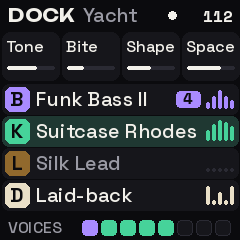
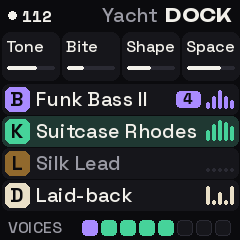
HOME header: tempo at the left, "Yacht DOCK" at the right

Changed region(s): [[0.35, 0.0292, 0.9625, 0.1167], [0.0292, 0.0292, 0.3208, 0.1167]]

diff --git a/firmware/src/ui_dock.c b/firmware/src/ui_dock.c
@@ -68,10 +68,15 @@ static void dk_head(void)
     dk.head = sig;
     ui.head_sig = 0;                                    /* (Melodee's header draws itself whole when it comes back) */
     cv_begin(240, H_HEAD, T_BG);
-    x = cv_text_on(8, ty_y(H_HEAD / 2, TY_WM), TY_WM, "DOCK", T_TEXT, T_BG);
-    cv_free_text(x + 8, ty_y(H_HEAD / 2, TY_TX), TY_TX, DOCK_LINEUPS[dock_lineup].name, T_MID, T_BG, 80);
-    cv_disc(172, H_HEAD / 2, 8, T_TEXT, !ext);
-    cv_text_on(232 - text_w(TY_MB, b), ty_y(H_HEAD / 2, TY_MB), TY_MB, b, T_TEXT, T_BG);
+    cv_disc(12, H_HEAD / 2, 8, T_TEXT, !ext);           /* the clock and the tempo at the left */
+    cv_text_on(22, ty_y(H_HEAD / 2, TY_MB), TY_MB, b, T_TEXT, T_BG);
+    x = 232 - text_w(TY_WM, "DOCK");                    /* the Line-up's name and DOCK at the right: "Yacht DOCK" */
+    cv_text_on(x, ty_y(H_HEAD / 2, TY_WM), TY_WM, "DOCK", T_TEXT, T_BG);
+    {
+        const char *nm = DOCK_LINEUPS[dock_lineup].name;
+        int32_t w = text_w(TY_TX, nm) < 96 ? text_w(TY_TX, nm) : 96;
+        cv_free_text(x - 8 - w, ty_y(H_HEAD / 2, TY_TX), TY_TX, nm, T_MID, T_BG, 96);
+    }
     cv_blit(0, Y_HEAD);
 }
 

diff --git a/tools/dock_refs.py b/tools/dock_refs.py
@@ -94,10 +94,10 @@ def header(s, title, right, right_c=TEXT):
 
 def home():
     s = Screen("home")
-    w = s.text((8, 22), "DOCK", WORD, TEXT)
-    s.text((8 + w + 8, 22), "Yacht", TX, MID, w=80)
-    s.d.ellipse((168, 11, 176, 19), fill=TEXT)          # clock: external (filled), internal (ring)
-    s.text((232, 22), "112", MONOB, TEXT, anchor="rs")
+    s.d.ellipse((8, 11, 16, 19), fill=TEXT)             # clock: external (filled), internal (ring); tempo at the left
+    s.text((22, 22), "112", MONOB, TEXT)
+    w = s.text((232, 22), "DOCK", WORD, TEXT, anchor="rs")   # the Line-up and DOCK at the right: "Yacht DOCK"
+    s.text((232 - w - 8, 22), "Yacht", TX, MID, w=96, anchor="rs")
     # the four knobs, always the same four
     for k, (lab, v) in enumerate([("Tone", .62), ("Bite", .35), ("Shape", .48), ("Space", .70)]):
         x = 2 + 60 * k

diff --git a/docs/design/DOCK_STYLE.md b/docs/design/DOCK_STYLE.md
@@ -122,7 +122,7 @@ Rules:
 
 | Screen | Header | Knob strip | Picture / rows | Bar |
 |---|---|---|---|---|
-| **HOME** (stage) | DOCK wordmark, Line-up name, clock dot, BPM | Tone · Bite · Shape · Space (PART or BAND) with gauges | four member rows: Bass, Keys, Lead, Drums | VOICES + eight squares |
+| **HOME** (stage) | clock dot and BPM at the left; the Line-up's name and the DOCK wordmark at the right ("Yacht DOCK") | Tone · Bite · Shape · Space (PART or BAND) with gauges | four member rows: Bass, Keys, Lead, Drums | VOICES + eight squares |
 | **FOCUS** (a member) | badge + member name, voices `n/6` | the engine's four, values in Unbounded; the turning one filled | what the turning knob shapes | the sound's name + engine |
 | **FX** (FX held) | FX, the sync rate | Depth · Mix · Rate · Gate | who goes through (three chips), then eight effect cells | (none: the cells reach the edge) |
 | **LOOPER** (REC) | REC dot, member badge, mode | the bar counter in Unbounded 48 (no knob strip) | beat strip, then the notes with the playhead | what happens next ("closes on bar 5") |

diff --git a/CHANGELOG.md b/CHANGELOG.md
@@ -95,6 +95,7 @@ Dock's own changes, newest first. Melodee's history up to the fork (Melodee 1.4.
   Lead at power-on. Optional WAVs of every sound: `build/host/juno_test build/juno`.
 
 ### Design
+- HOME's header: the clock and tempo at the left, the Line-up and the wordmark at the right, reading "Yacht DOCK".
 - **Style guide** `docs/design/DOCK_STYLE.md`: colour = band member, shapes not numbers, calm screens, nothing under
   16 px or cut; tokens, type roles, the 240 × 240 grid, components, and what changed from the scamps and why.
 - Fonts: Space Grotesk (words), Unbounded (big numbers, the DOCK wordmark), Space Mono (data), in `assets/fonts/`.
